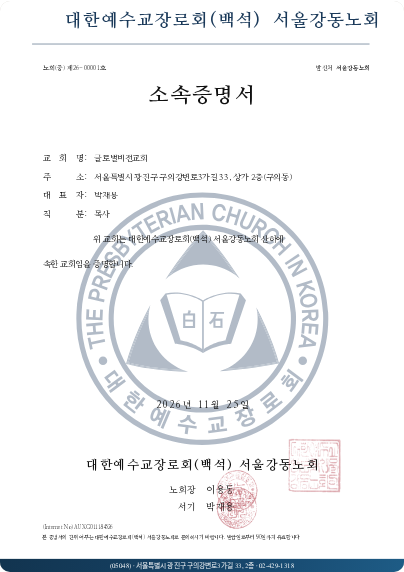
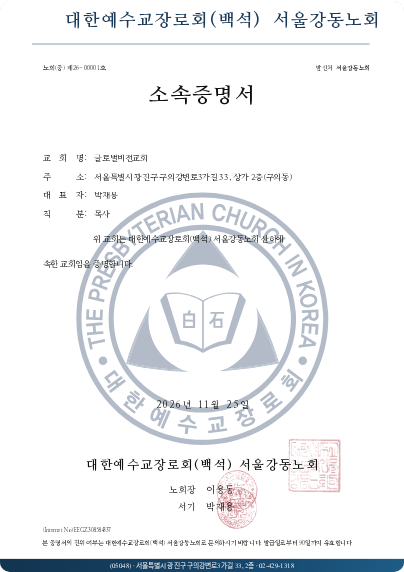
머리글 아래 괘선 제거, 캐시 v72

Changed region(s): [[0.0891, 0.8916, 0.8614, 0.951]]

diff --git a/index.html b/index.html
@@ -12,7 +12,7 @@
 <meta name="mobile-web-app-capable" content="yes">
 <meta name="apple-mobile-web-app-capable" content="yes">
 <meta name="apple-mobile-web-app-title" content="노회 문서">
-<link rel="stylesheet" href="assets/app.css?v=71">
+<link rel="stylesheet" href="assets/app.css?v=72">
 </head>
 <body>
 
@@ -976,10 +976,10 @@
 
 <div class="toast" id="toast" hidden></div>
 
-<script src="vendor/html2canvas.min.js?v=71"></script>
-<script src="assets/xlsx.js?v=71"></script>
-<script src="assets/app.js?v=71"></script>
-<script src="assets/notice.js?v=71"></script>
-<script src="assets/lock.js?v=71"></script>
+<script src="vendor/html2canvas.min.js?v=72"></script>
+<script src="assets/xlsx.js?v=72"></script>
+<script src="assets/app.js?v=72"></script>
+<script src="assets/notice.js?v=72"></script>
+<script src="assets/lock.js?v=72"></script>
 </body>
 </html>

diff --git a/assets/app.css b/assets/app.css
@@ -201,7 +201,7 @@ main{padding:14px 14px 0}
 .gap-tel[hidden]{display:none}
 .p-holy{margin:1.4mm 0 0;font-size:3.2mm;line-height:1.4;letter-spacing:.02mm;color:#333;white-space:nowrap;overflow:hidden}
 .p-holy[hidden]{display:none}
-.p-rule{display:block;height:0;margin:5.12mm 0 0;border-top:.45mm solid var(--rule-lite,#42618A)}
+.p-rule{display:none}
 /* 총회 주소까지 두 줄이 되면 그만큼 줄 간격을 좁혀 아래 괘선 자리를 지킨다 */
 .paper.has-hq .p-sub{padding-top:1.8mm}
 .paper.has-hq .p-sub .hl2{line-height:1.35}

diff --git a/sw.js b/sw.js
@@ -3,7 +3,7 @@
    운동일지 앱(/Church/)과는 다른 사이트이므로 그쪽 캐시·화면은 건드리지 않는다.
    네트워크가 있으면 새 파일을 먼저 받아 두고, 없으면 받아 둔 사본으로 연다. */
 
-const CACHE = 'certificate-standalone-v71';
+const CACHE = 'certificate-standalone-v72';
 const SHELL = [
   './',
   './index.html',

diff --git a/dbg.py b/dbg.py
@@ -1,0 +1,13 @@
+from playwright.sync_api import sync_playwright
+import pathlib
+url='file://'+str(pathlib.Path('index.html').resolve())+'?v=71'
+with sync_playwright() as p:
+    b=p.chromium.launch(); pg=b.new_page(viewport={'width':1200,'height':1500})
+    pg.goto(url); pg.wait_for_timeout(1200)
+    for _ in range(4):
+        pg.evaluate("()=>{const b=[...document.querySelectorAll('button')].find(x=>x.textContent.trim()==='0');if(b)b.click();}")
+        pg.wait_for_timeout(100)
+    pg.wait_for_timeout(600)
+    pg.evaluate("()=>document.getElementById('cvGo').click()"); pg.wait_for_timeout(1500)
+    print(pg.evaluate("()=>{const s=JSON.parse(localStorage.getItem('cert.v1')||'{}'); const f=(s.fmt&&s.fmt.note1)||''; return {note1:f, note2:(s.fmt||{}).note2, text:document.getElementById('pNoteLine').textContent};}"))
+    b.close()
